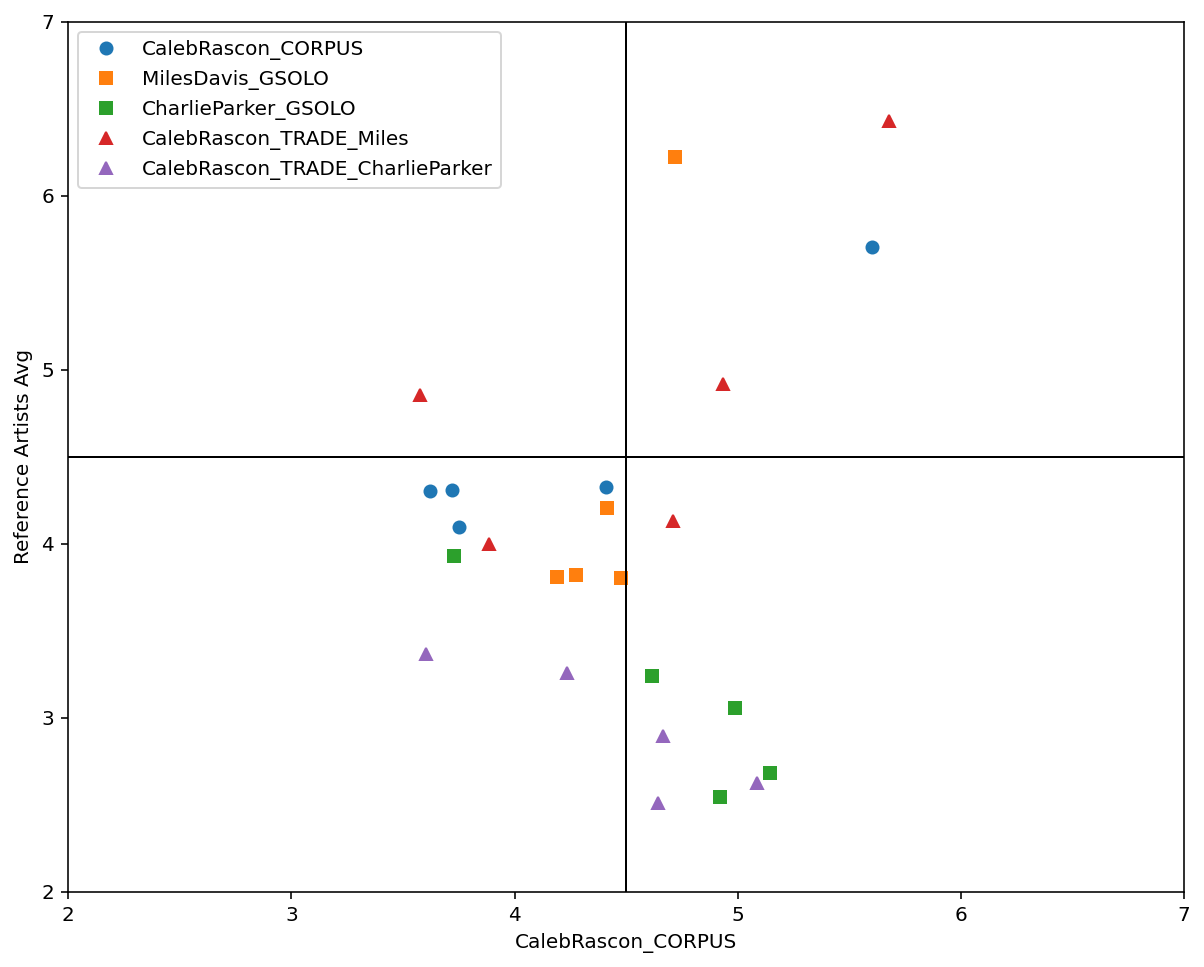
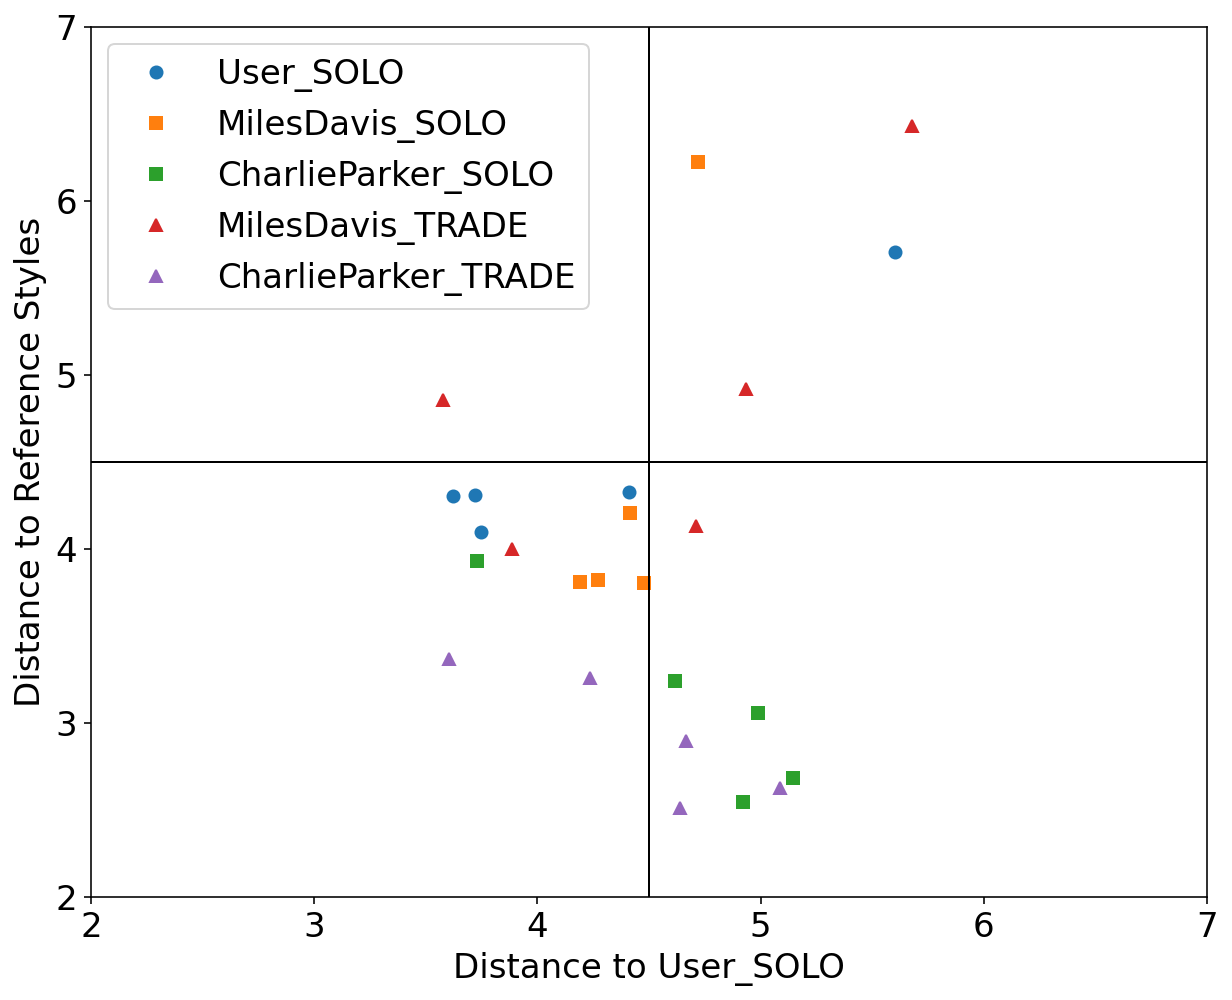
updated graphs

diff --git a/index.md b/index.md
@@ -97,12 +97,12 @@ The corresponding Jupyter notebooks can be found in this respository following t
 
 ## Case study using Impro-Visor
 
-We used Impro-Visor to test the similarity measures that had the best results in our controlled experiments and for comparison is included a simple measure that is Euclidean Distance. For each group of melodies the similarity was calculated for the X axis to the Corpus created by the user. For the Y axis it was calculated with the corresponding solos of the composer pre-built grammar. For example the Tradings between Caleb and Miles Davis were compared with Caleb's corpus for the X axis and with the grammar solos of Miles Davis for the Y axis.
+We used Impro-Visor to test the similarity measures that had the best results in our controlled experiments and for comparison is included a simple measure that is Euclidean Distance. For each group of melodies the similarity was calculated for the X axis to the Corpus created by the user. For the Y axis it was calculated with the corresponding solos of the composer pre-built grammar. For example the Tradings between User and Miles Davis were compared with User's corpus for the X axis and with the grammar solos of Miles Davis for the Y axis.
 
 The following melodies were used:
 
-### Corpus - Caleb
-  Original pieces composed by co-author Caleb Rascon, they are 12 measures in length.
+### Corpus - User
+  Original pieces composed by an User, they are 12 measures in length.
 
 {% include embed-audio.html src="./audios/CalebRascon/WAV_CORPUS/rola1.wav" %}
 {% include embed-audio.html src="./audios/CalebRascon/WAV_CORPUS/rola2.wav" %}
@@ -129,8 +129,8 @@ The following melodies were used:
 {% include embed-audio.html src="./audios/CharlieParker/WAV_Grammar_SOLO_LEN12/CharlieParker_Grammar_SOLO_LEN12_004.wav" %}
 {% include embed-audio.html src="./audios/CharlieParker/WAV_Grammar_SOLO_LEN12/CharlieParker_Grammar_SOLO_LEN12_005.wav" %}
 
-### Trading - Caleb & Charlie Parker
-  With an active trade using 2 measures for each turn for a total of 12 measures, the co-author was asked to improvise using the prebuilt grammar of Charlie Parker.
+### Trading - User & Charlie Parker
+  With an active trade using 2 measures for each turn for a total of 12 measures, the User was asked to improvise using the prebuilt grammar of Charlie Parker.
 
 {% include embed-audio.html src="./audios/CalebRascon/WAV_Grammar_TRADE_CharlieParker/trade_Caleb_CharlieParker_rola1.wav" %}
 {% include embed-audio.html src="./audios/CalebRascon/WAV_Grammar_TRADE_CharlieParker/trade_Caleb_CharlieParker_rola2.wav" %}
@@ -138,8 +138,8 @@ The following melodies were used:
 {% include embed-audio.html src="./audios/CalebRascon/WAV_Grammar_TRADE_CharlieParker/trade_Caleb_CharlieParker_rola4.wav" %}
 {% include embed-audio.html src="./audios/CalebRascon/WAV_Grammar_TRADE_CharlieParker/trade_Caleb_CharlieParker_rola5.wav" %}
   
-### Trading - Caleb & Miles Davis
-  With an active trade using 2 measures for each turn for a total of 12 measures, the co-author was asked to improvise using the prebuilt grammar of Miles Davis.
+### Trading - User & Miles Davis
+  With an active trade using 2 measures for each turn for a total of 12 measures, the user was asked to improvise using the prebuilt grammar of Miles Davis.
 
 {% include embed-audio.html src="./audios/CalebRascon/WAV_Grammar_TRADE_Miles/trade_Caleb_Miles_rola1.wav" %}
 {% include embed-audio.html src="./audios/CalebRascon/WAV_Grammar_TRADE_Miles/trade_Caleb_Miles_rola2.wav" %}
@@ -156,11 +156,6 @@ The following melodies were used:
 ![Image](./images/2DPlane_LocalAlignment.png)
 **Euclidean Distance**:
 ![Image](./images/2DPlane_EuclideanDistance.png)
-**BSPLINE**:
-![Image](./images/2DPlane_BSPLINE.png)
-**Correlatinon Distance**:
-![Image](./images/2DPlane_CORR.png)
-**City Block Distance**:
-![Image](./images/2DPlane_CBD.png)
+
 
 The corresponding Jupyter notebooks can be found in this respository following this [link](https://github.com/Sirivasv/RNA/tree/main/CaseStudy).
